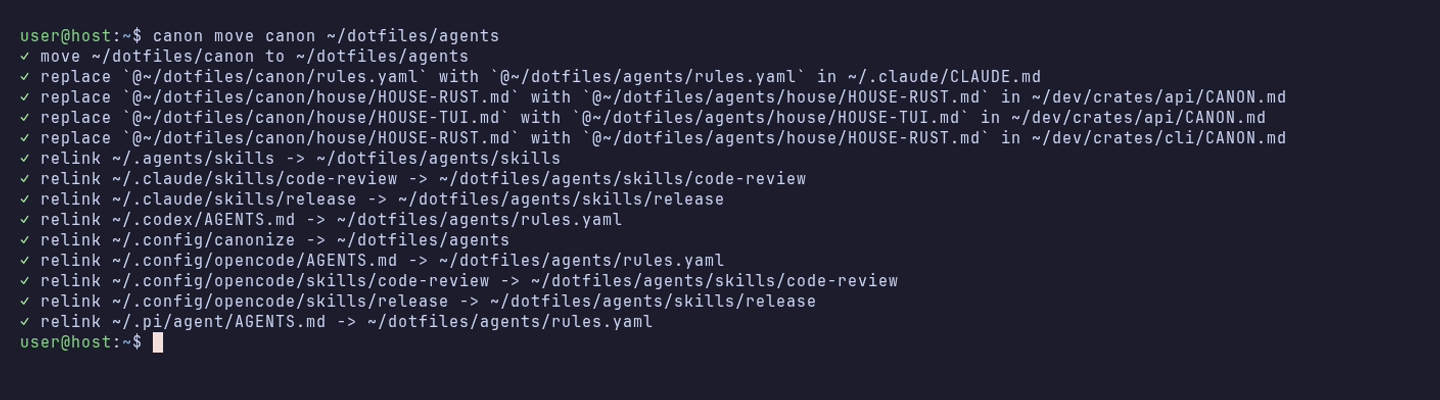
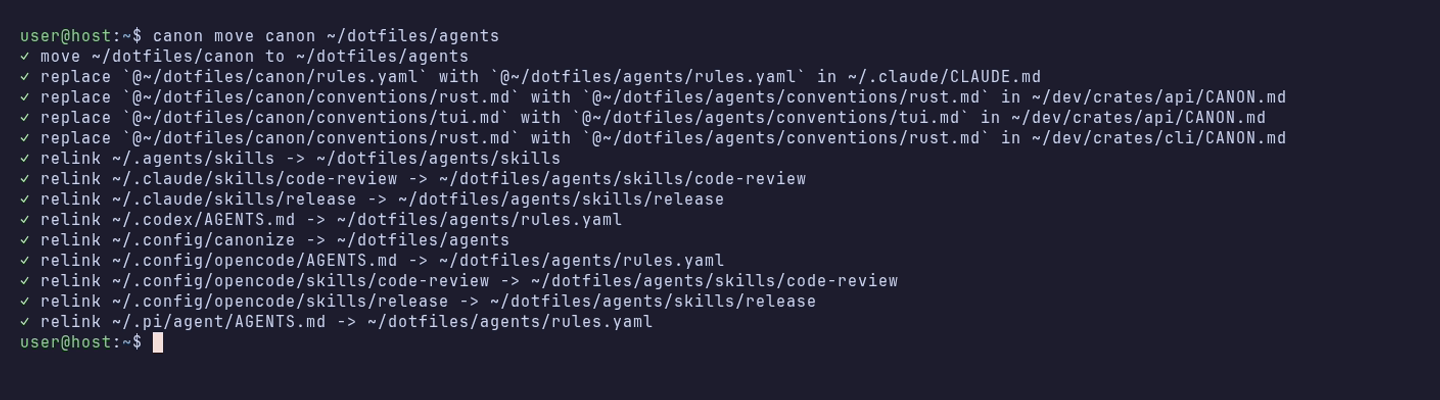
docs: demo stages conventions/, projects gif starts on a project

Changed region(s): [[0.2188, 0.21, 0.3438, 0.36], [0.5625, 0.21, 0.6562, 0.36]]

diff --git a/AGENTS.md b/AGENTS.md
@@ -55,7 +55,7 @@ Working brief for an AI coding agent: the invariants, gotchas and decisions need
 - Every box is drawn over the rows above the footer. The help is the `HELP` table in `render.rs`, one `(keys, what)` row per key under a lowercase heading, a row with no keys being a dim note; it is a reader whose body scrolls (`j/k`, `ctrl-d/u`, `g/G`) under an `esc close` row that never moves, with `vscrollbar` on the right border once it is taller than the box, so adding a row costs nothing but its line, and `render_help` clamps `help_scroll`, since only it knows the height.
 
 ## Demo rig
-- `demo/stage.sh` builds `demo/home`: a canon just moved from `~/dotfiles/development` to `~/dotfiles/canon` (starter rules and schema, `house/HOUSE-RUST.md`, `house/HOUSE-TUI.md`, skills `code-review` and `release`), a Claude whose `CLAUDE.md` still imports the old path plus its own `meeting-notes` and `synced` skills, installed Codex, pi and opencode with nothing wired, and projects `dev/crates/api`, `dev/crates/cli` (convention imports from the old folder) and `dev/web/site`. `up` leaves it unset (wizard opens); `ready` also writes `canonize.toml` and the `~/.config/canonize` link, drift left in place.
+- `demo/stage.sh` builds `demo/home`: a canon just moved from `~/dotfiles/development` to `~/dotfiles/canon` (starter rules and schema, `conventions/rust.md`, `conventions/tui.md`, skills `code-review` and `release`), a Claude whose `CLAUDE.md` still imports the old path plus its own `meeting-notes` and `synced` skills, installed Codex, pi and opencode with nothing wired, and projects `dev/crates/api`, `dev/crates/cli` (convention imports from the old folder) and `dev/web/site`. `up` leaves it unset (wizard opens); `ready` also writes `canonize.toml` and the `~/.config/canonize` link, drift left in place.
 - Tapes, one per picture: `setup.tape` (setup.gif: six Enters, y, F, y), `agents.tape` (agents.gif: open a card, fix a line, link the skills, Esc, F), `skills.tape` (skills.gif: adopt with f, F), `projects.tape` (projects.gif: Enter repoints, F, a… every project, d…), `shots.tape` (status.png), `move.tape` (move.png: `canon fix` hidden first, then `canon move canon ~/dotfiles/agents`; 1440 wide so no repoint line wraps). `demo/render.sh` renders every tape (or the ones named) in a container, so a machine needs podman or docker and nothing else: the image is `demo/Dockerfile`, vhs's own image pinned by digest plus git, installed from `snapshot.debian.org` at the date in its `SNAPSHOT` arg, and each tape runs in a container of its own, as your user (`--userns=keep-id`, or docker's `--user`) so the images stay yours and the prompt ends in `$`, with no network, staging, recording and tearing down. The repo is mounted at `/work/canonize`, so the absolute path opencode's `instructions` line carries (shown in projects.gif) reads that and never the renderer's own home, which it did when the tapes ran on the host.
 
 ## Tests

diff --git a/README.md b/README.md
@@ -108,9 +108,9 @@ A token you type is kept outside your canon, readable by you alone, so your dotf
 ![canon move renaming the canon folder and repointing every import, link and shortcut that named the old path](https://gitlab.com/safteinzz/canonize/-/raw/main/readme-assets/move.png)
 
 ```bash
-canon move canon ~/dotfiles/canon        # the whole folder
-canon move house conventions             # something inside it, renamed
-canon move ~/old/canon ~/dotfiles/canon  # one you already moved by hand: repoint only
+canon move canon ~/dotfiles/canon                     # the whole folder
+canon move conventions/tui.md conventions/terminal.md # something inside it, renamed
+canon move ~/old/canon ~/dotfiles/canon               # one you already moved by hand: repoint only
 ```
 
 Every import, link and setting that named the old path is repointed, and running the same command again finishes a move that stopped halfway.
